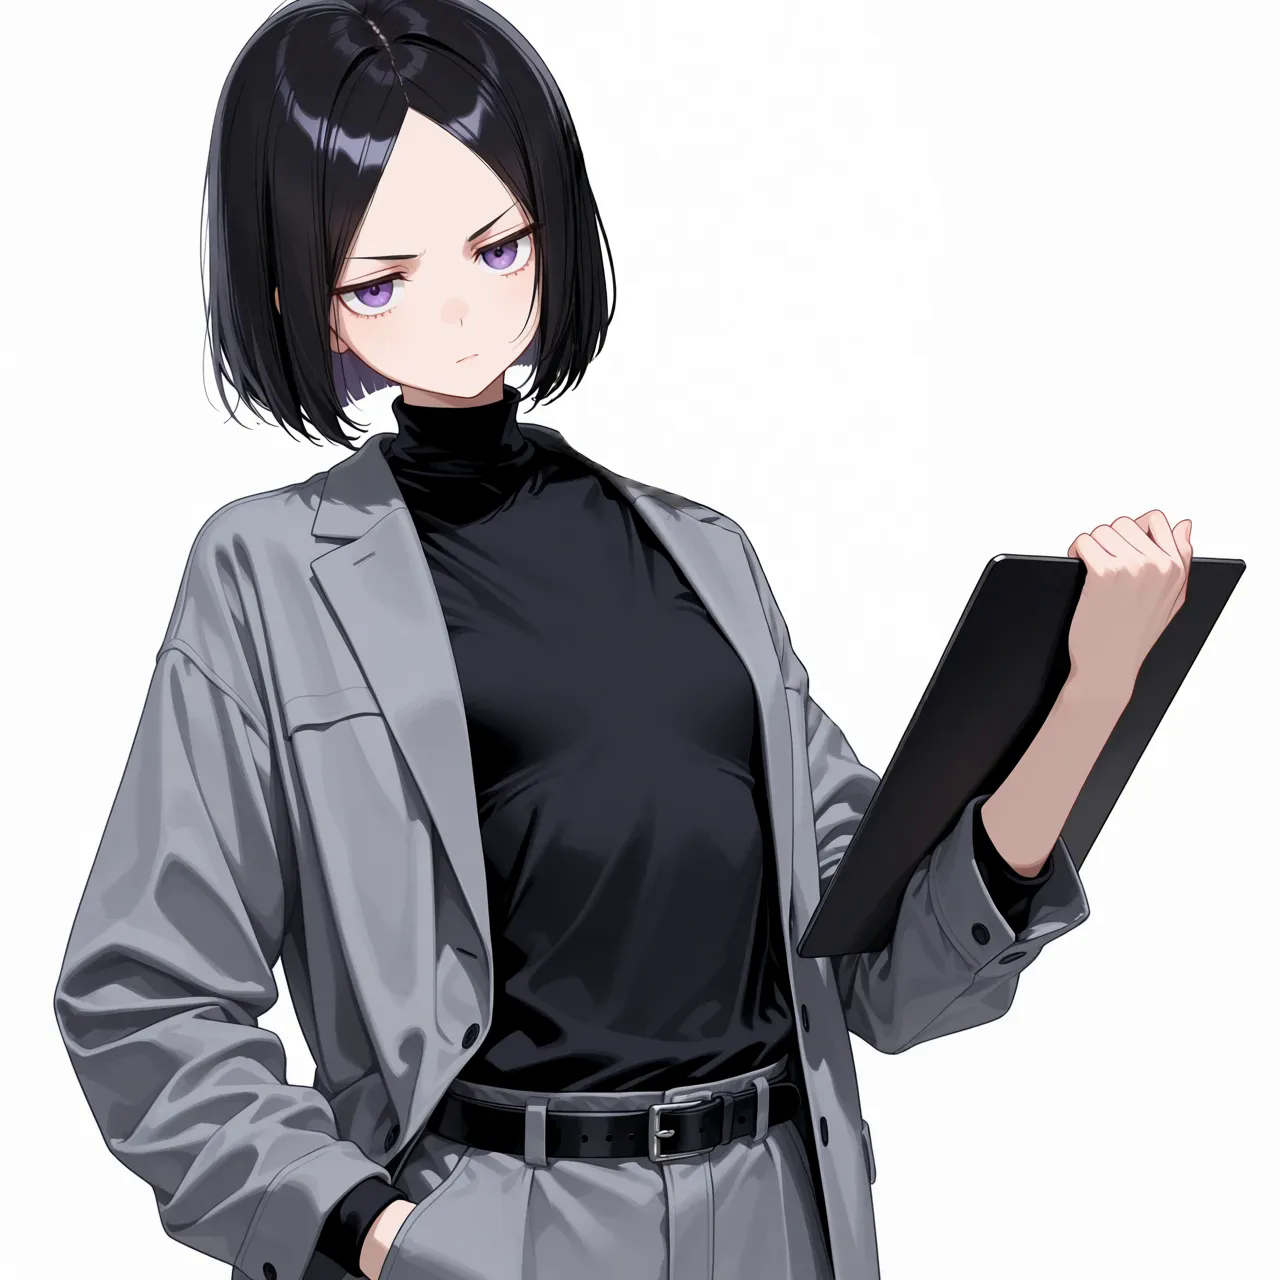
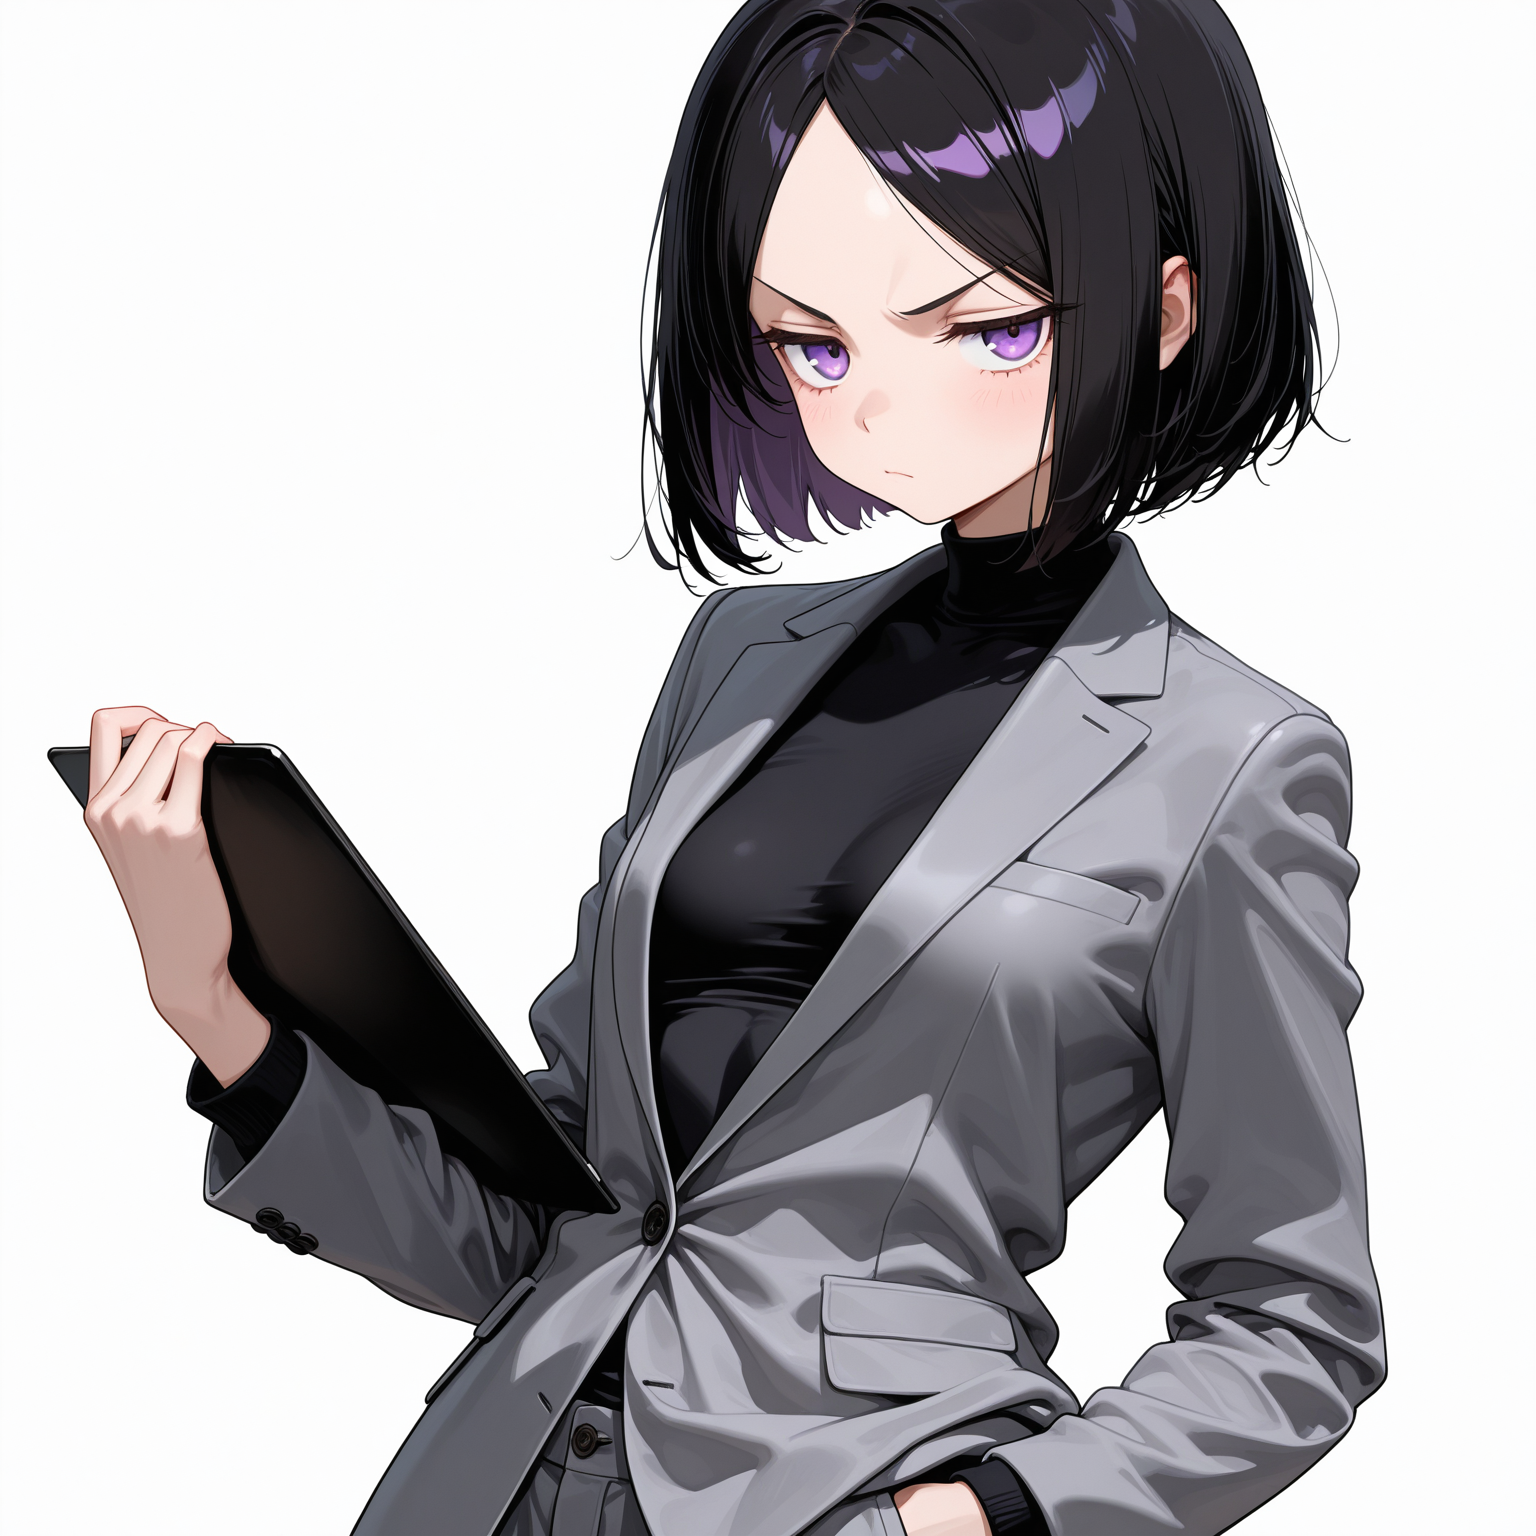
オーディオドラマの新エピソードを追加し、既存のエピソードの区切りを整理。メンバーのバイオグラフィーを更新し、最近の趣味を反映。画像ファイルを更新。

diff --git a/mozcrisis/audio_drama.html b/mozcrisis/audio_drama.html
@@ -75,13 +75,6 @@
             border: 0;
         }
 
-        .drama-divider {
-            border: 0;
-            height: 1px;
-            background: #222;
-            margin: 60px 0;
-        }
-
         footer {
             text-align: center;
             padding: 60px 20px;
@@ -107,8 +100,18 @@
             <h1>AUDIO_DRAMA</h1>
             <div class="subtitle">// SYSTEM LOGS &amp; BACKSTAGE CONVERSATIONS</div>
         </header>
-
-        <!-- #04 -->
+        <div class="drama-card">
+            <span class="ep-number">EPISODE_005</span>
+            <h2 class="ep-title">パワハラ上司るかぴー、襲来！</h2>
+            <p class="ep-desc">
+                緊迫する会議室に現れたのは、運営レーベル・オリジアワークスのプロデューサー「るかぴー」。<br>
+                理不尽なパワハラとグーパンチ、そしてジウへの異常な激甘対応が吹き荒れる中、彼女から告げられた「重大な業務連絡」とは……！？
+            </p>
+            <div class="video-container">
+                <iframe src="https://www.youtube.com/embed/7p9u3ZbkoNA" title="MOZCRISIS Audio Drama #05" allowfullscreen></iframe>
+            </div>
+        </div>
+        <hr>
         <div class="drama-card">
             <span class="ep-number">EPISODE_004</span>
             <h2 class="ep-title">メンバー全員で『歌ってみた』を同時視聴してみた</h2>
@@ -120,8 +123,7 @@
                 <iframe src="https://www.youtube.com/embed/hGx3a55GXIw" title="MOZCRISIS Audio Drama #04" allowfullscreen></iframe>
             </div>
         </div>
-
-        <!-- #03 -->
+        <hr>
         <div class="drama-card">
             <span class="ep-number">EPISODE_003</span>
             <h2 class="ep-title">初！『歌ってみた』のオファーが届いた夜</h2>
@@ -133,8 +135,7 @@
                 <iframe src="https://www.youtube.com/embed/i1IMe2TpPoQ" title="MOZCRISIS Audio Drama #03" allowfullscreen></iframe>
             </div>
         </div>
-
-        <!-- #02 -->
+        <hr>
         <div class="drama-card">
             <span class="ep-number">EPISODE_002</span>
             <h2 class="ep-title">祝！YouTube初コメントがついた結果</h2>
@@ -146,10 +147,7 @@
                 <iframe src="https://www.youtube.com/embed/lnM4ZdbObyw" title="MOZCRISIS Audio Drama #02" allowfullscreen></iframe>
             </div>
         </div>
-
-        <hr class="drama-divider">
-
-        <!-- #01 -->
+        <hr>
         <div class="drama-card">
             <span class="ep-number">EPISODE_001</span>
             <h2 class="ep-title">自主制作PVを作った結果</h2>
